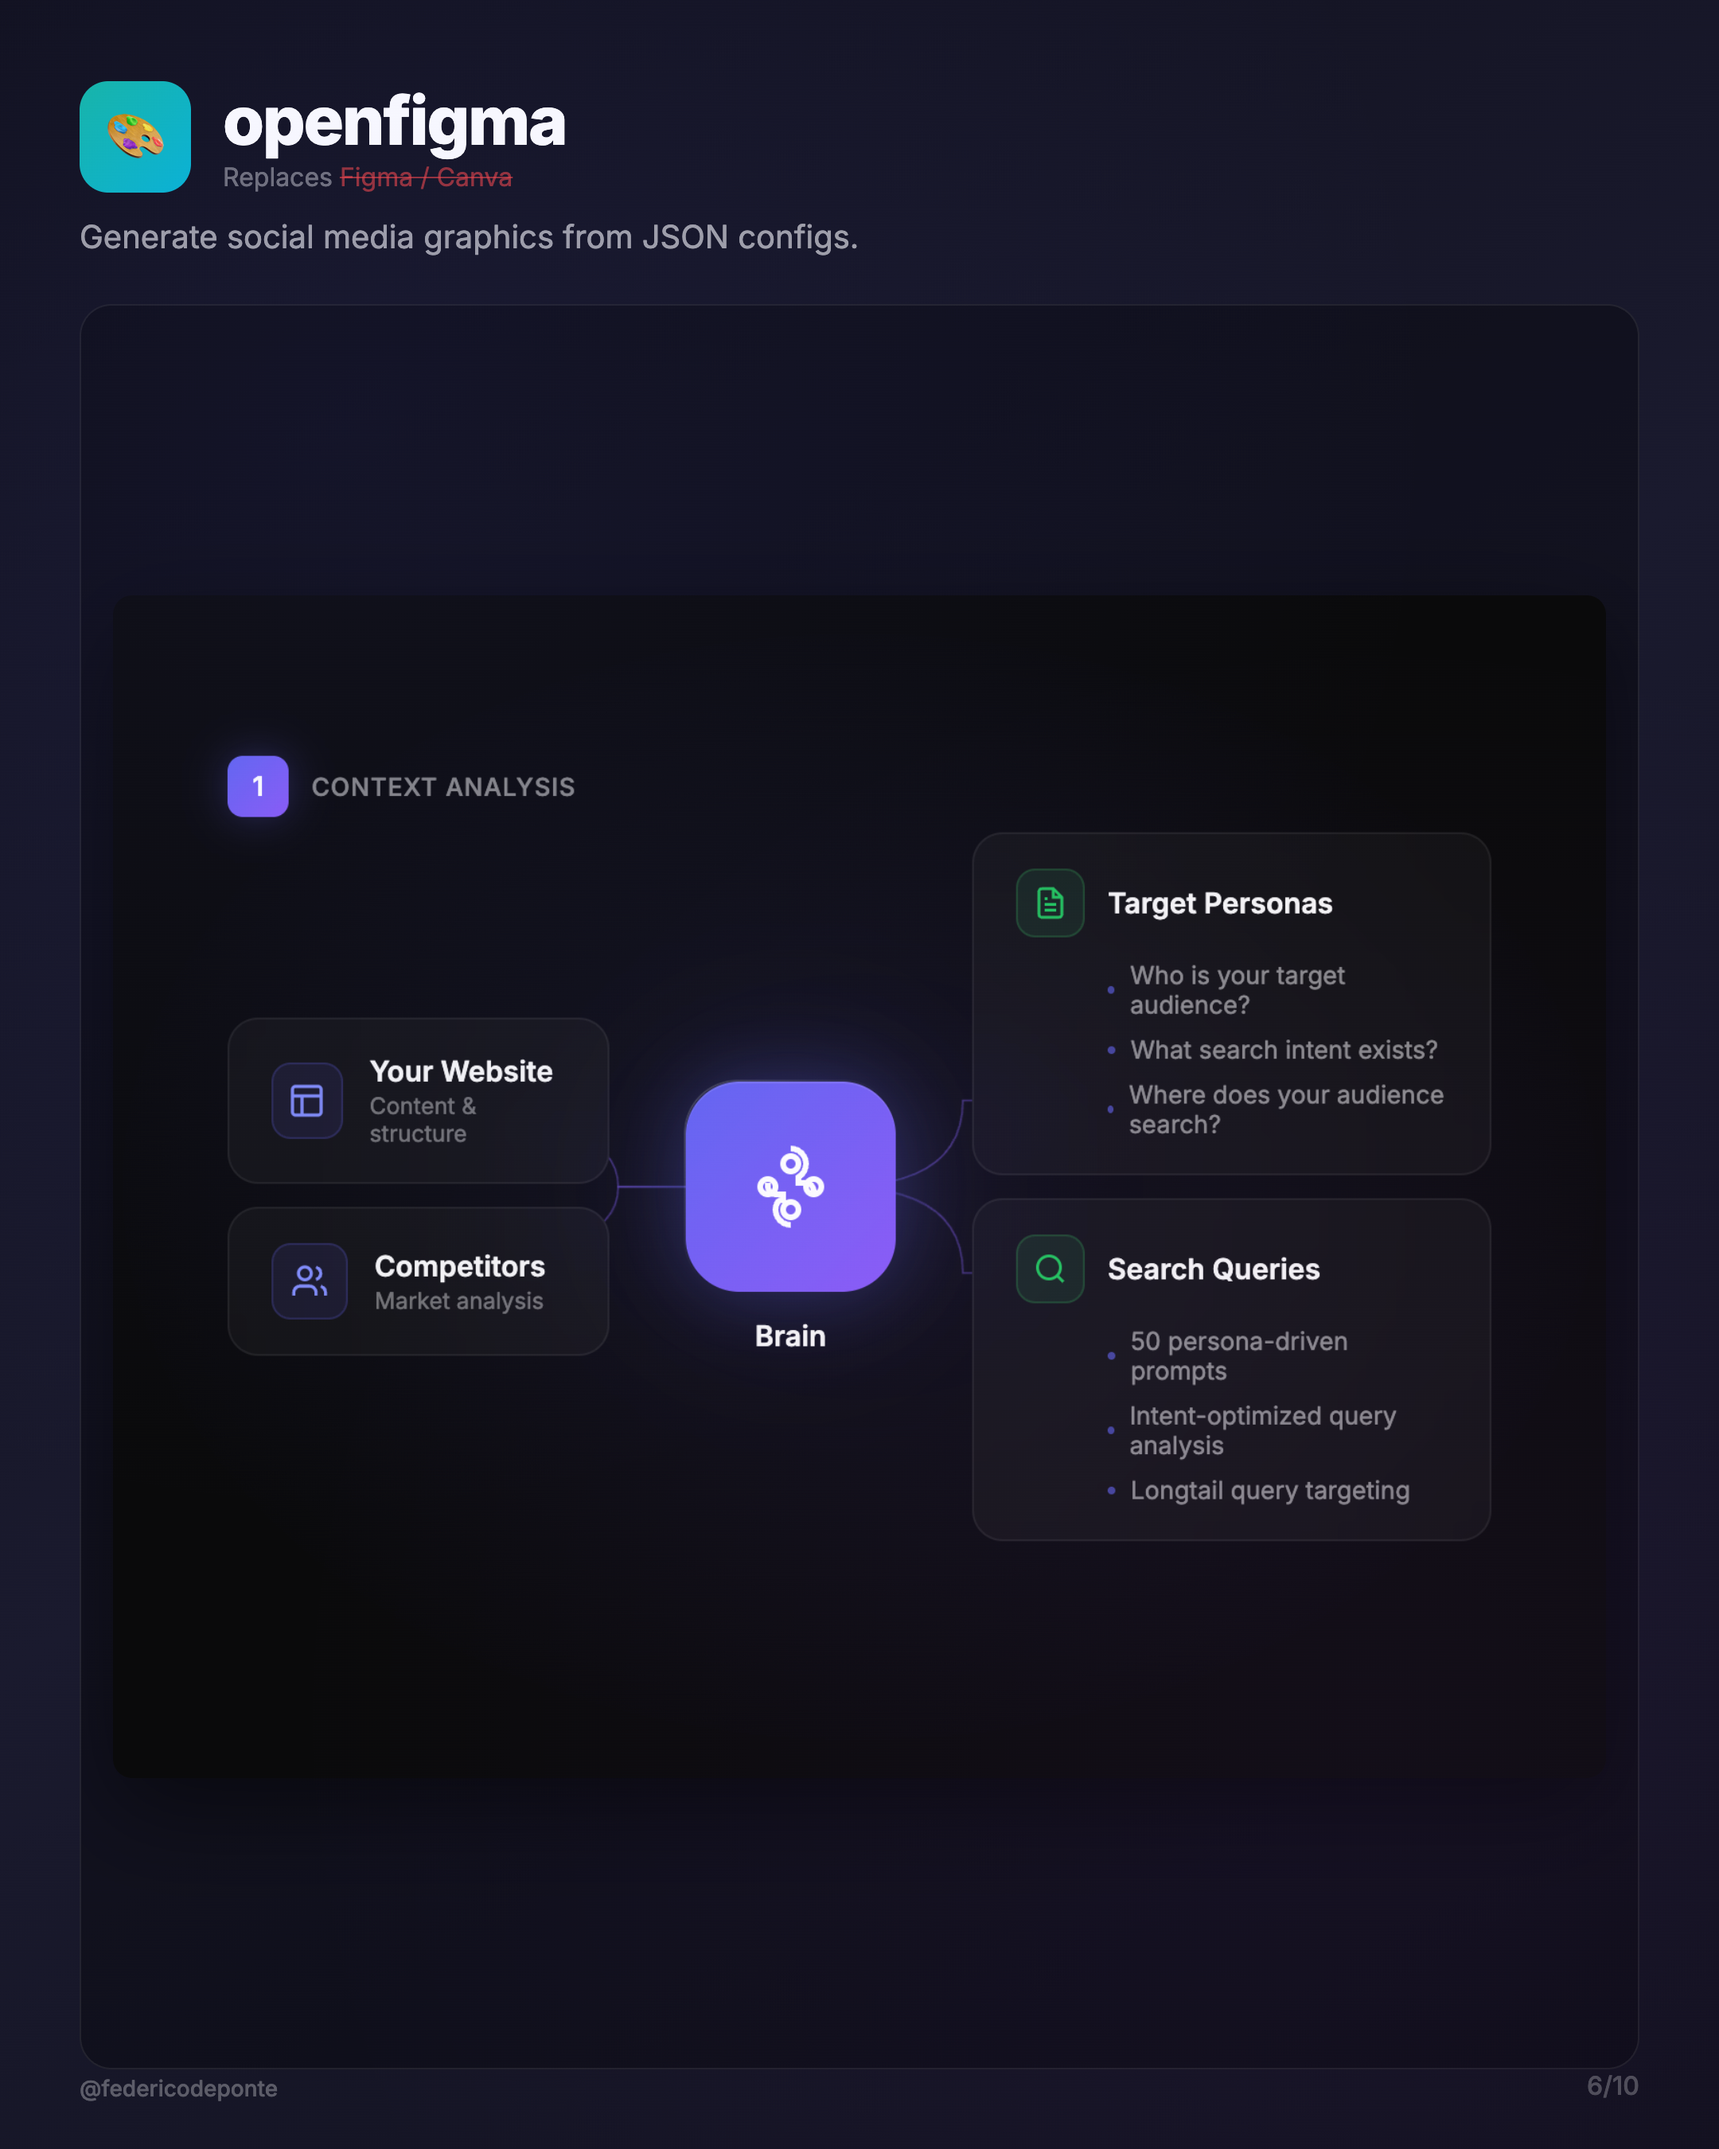
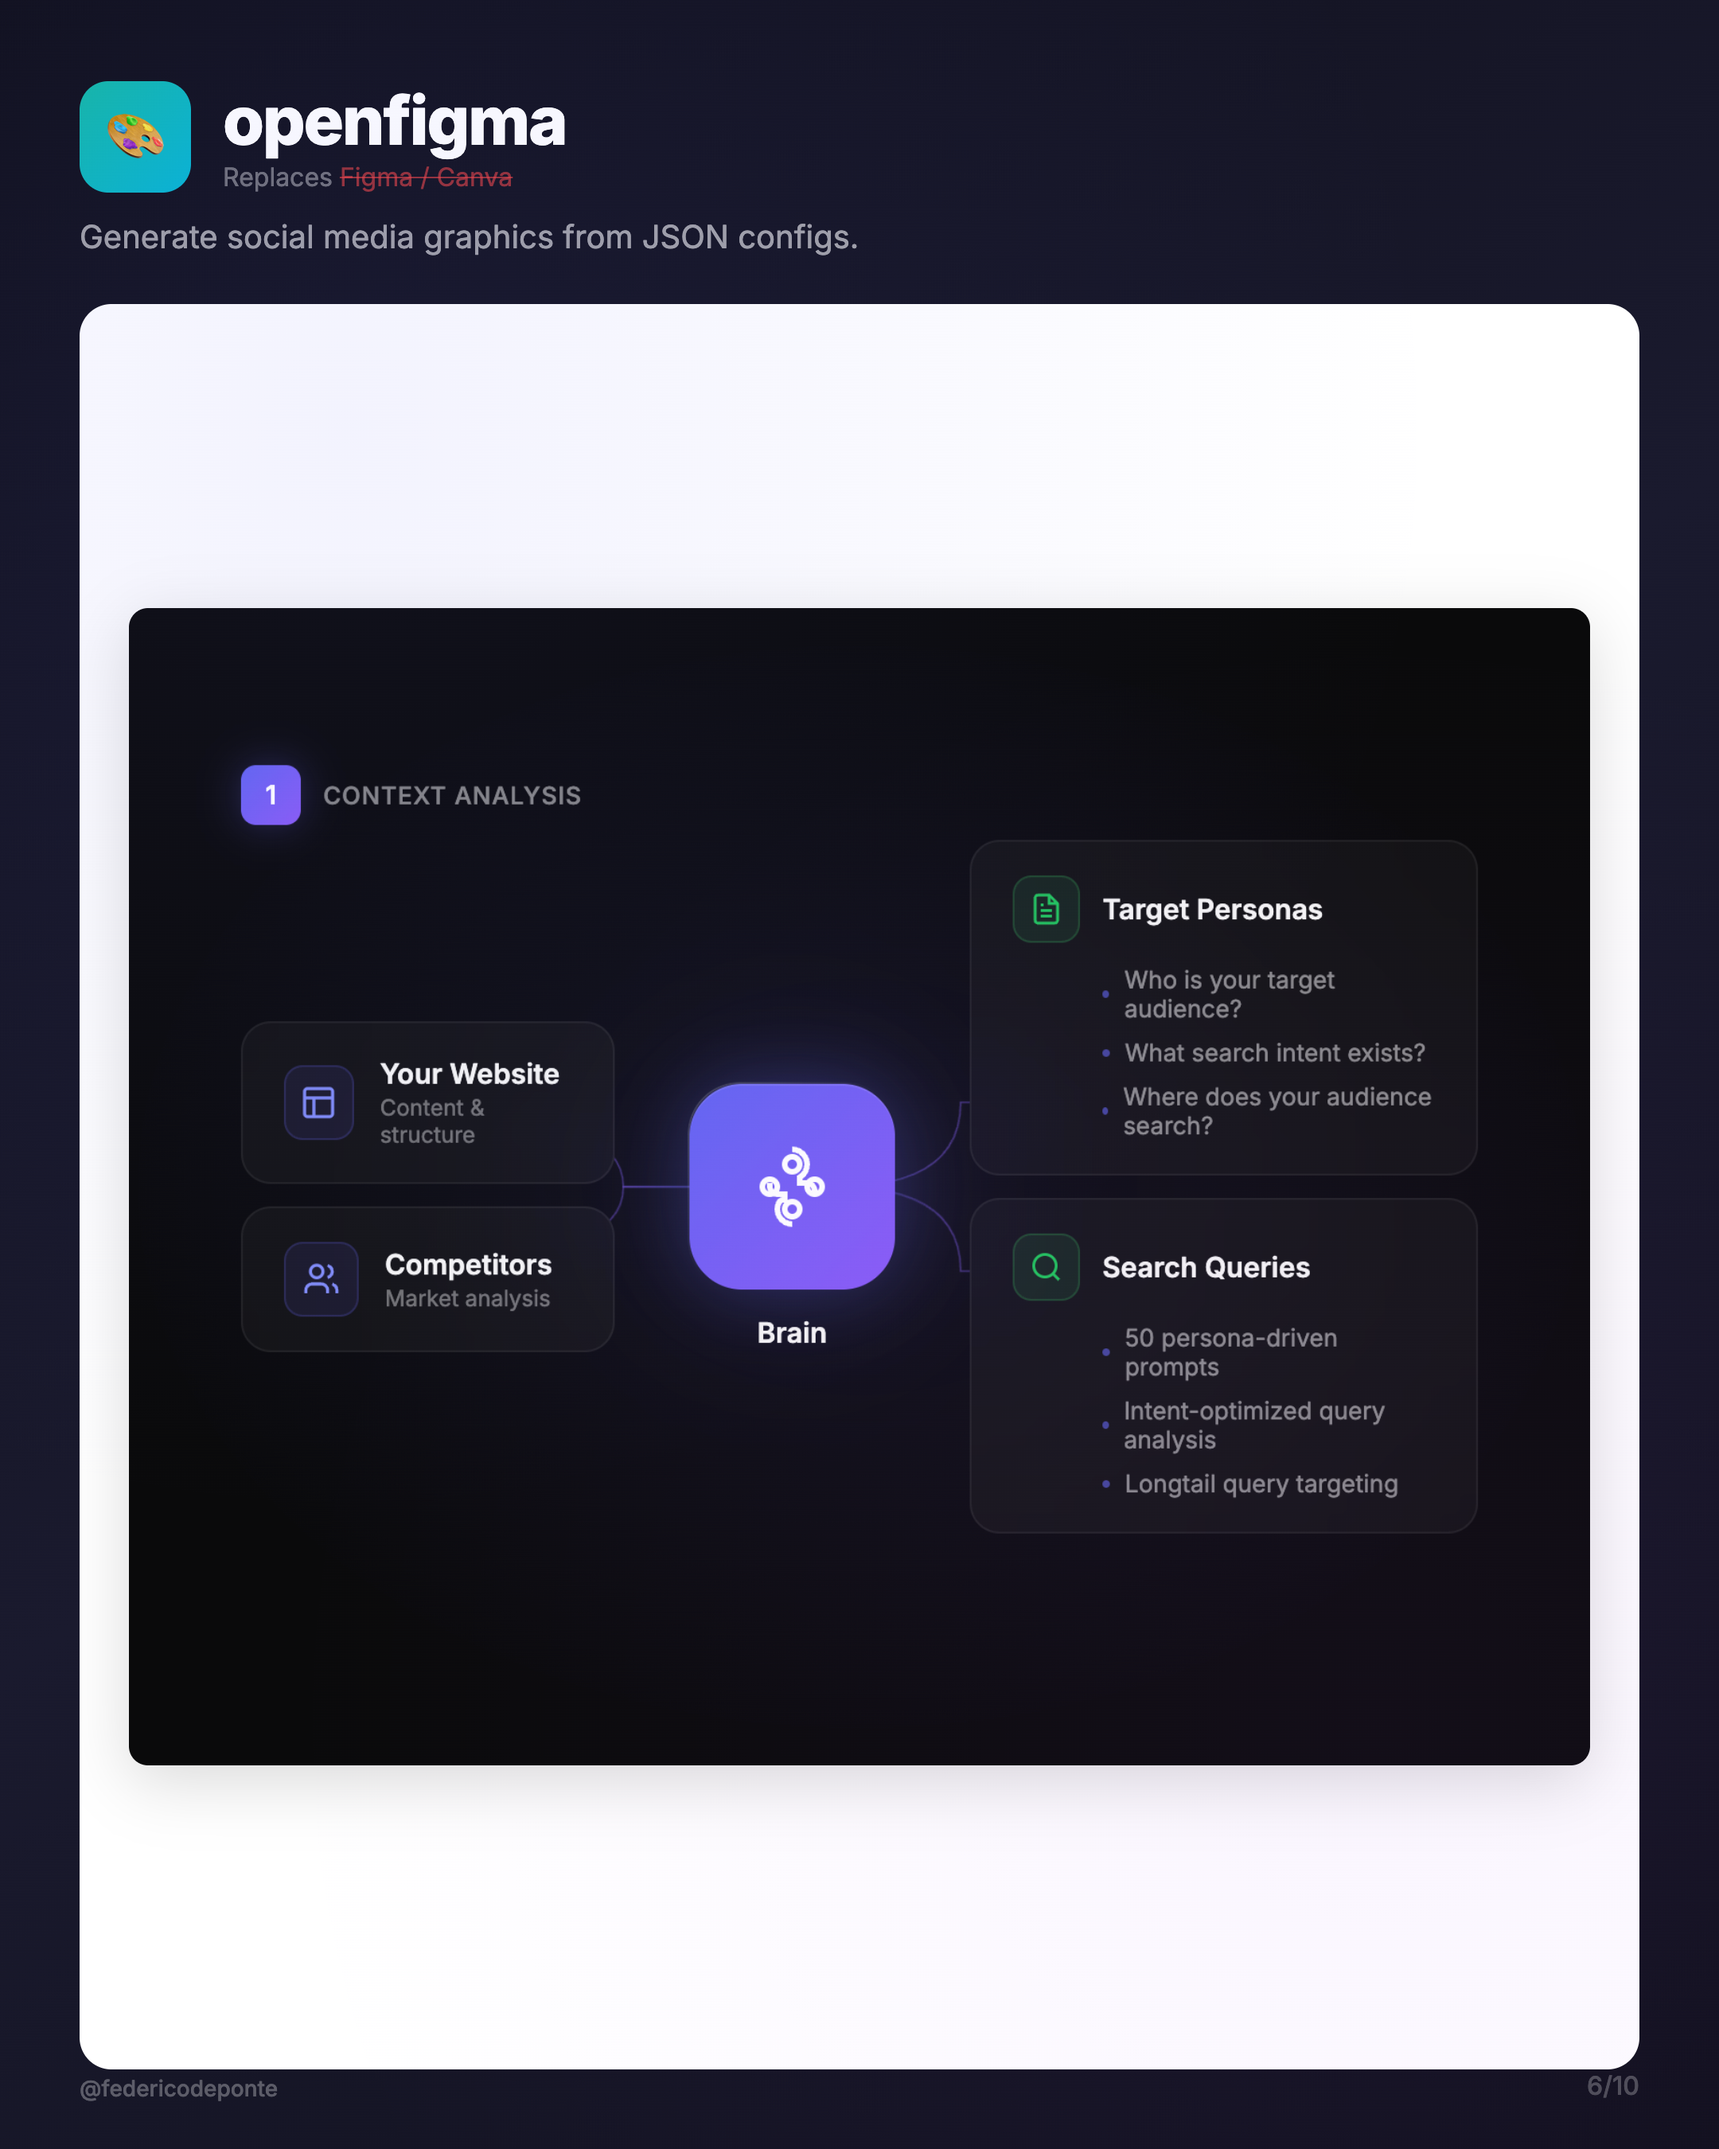
Add white bg to openfigma

diff --git a/slides.html b/slides.html
@@ -485,7 +485,7 @@
             </div>
         </div>
         <p class="tagline">Generate social media graphics from JSON configs.</p>
-        <div class="hero-image">
+        <div class="hero-image white-bg">
             <img src="visuals/openfigma.png" alt="openfigma output">
         </div>
         <span class="slide-number">6/10</span>
